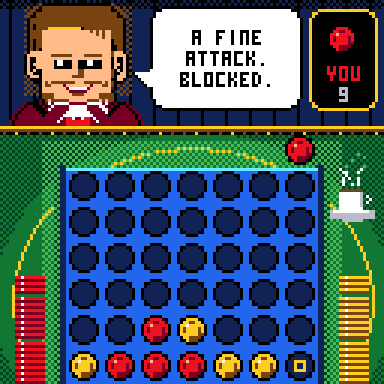
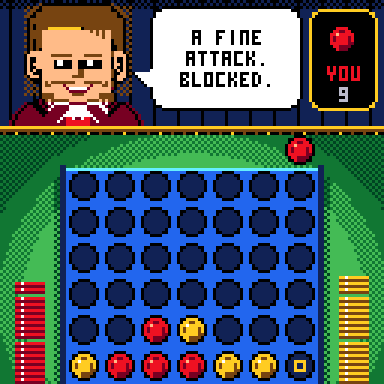
One quiet ending, a ringed felt, no cup
Win or lose the same lit room: GOOD GAME when you win, TRY AGAIN when you
lose, in the same gold lettering. The felt's greens run in rings from the
middle; the coffee cup and the gold line are gone. Each side's stack counts
the disc in hand as taken.

Changed region(s): [[0.0, 0.3438, 1.0, 1.0], [0.9375, 0.4062, 0.9688, 0.4375]]

diff --git a/src/stage/Stage.cpp b/src/stage/Stage.cpp
@@ -193,11 +193,9 @@ static void sceneUpdate() {
     uint16_t t = phaseT;
     if (t < 8) pal::setFade((uint8_t)(t * 2 + 2));
     if (t == 10) {
-        fx::banner(youWon() ? "BRAVO!" : "GOOD GAME", youWon() ? fx::B_RAINBOW : fx::B_GOLD, 12, 100);
+        fx::banner(youWon() ? "GOOD GAME" : "TRY AGAIN", fx::B_GOLD, 12, 100);
         fx::holdBanner(true);
     }
-    // You won: the confetti is yours. You lost: a quiet word, no fuss.
-    if (youWon() && t % 40 == 5 && t < 250) { fx::fountain(8, 126, 10); fx::fountain(120, 126, 10); }
     // His last word, typed under him from CAPTION_AT.
     if (skip && !overDone) { overDone = true; skip = false; }
     if (t >= 150) overDone = true;
@@ -386,10 +384,12 @@ static void drawPlay(uint32_t frame) {
     else drawPlaque();
     drawTurn(frame);
     rail(frame);
-    props(frame);
     // Half the discs each to begin with.
     uint8_t reds = c4::count(shown.side[0]), golds = c4::count(shown.side[1]);
-    drawStacks((uint8_t)(21 - reds - (fall.on && fall.side == 0)), (uint8_t)(21 - golds - (fall.on && fall.side == 1)));
+    // ... less those on the board, and the one in hand or on its way down.
+    bool hand = fall.on || (phase == PLAY && live);
+    uint8_t whose = fall.on ? fall.side : turnSide;
+    drawStacks((uint8_t)(21 - reds - (hand && whose == 0)), (uint8_t)(21 - golds - (hand && whose == 1)));
     if (fall.on) {
         int y = fallY();
         drawDisc(discX(fall.col), y, fall.side);
@@ -406,20 +406,6 @@ static void drawPlay(uint32_t frame) {
     }
 }
 
-// Bresenham from the sunburst's centre, stopped where it leaves the screen.
-static void ray(int x1, int y1, uint8_t c) {
-    int x = 64, y = 60;
-    int dx = x1 > x ? x1 - x : x - x1, dy = y1 > y ? y1 - y : y - y1;
-    int stepX = x < x1 ? 1 : -1, stepY = y < y1 ? 1 : -1, err = dx - dy;
-    while ((unsigned)x < GFX_W && (unsigned)y < GFX_H) {
-        gfx_pixel(x, y, c);
-        if (x == x1 && y == y1) break;
-        int e2 = err << 1;
-        if (e2 > -dy) { err -= dy; x += stepX; }
-        if (e2 < dx) { err += dx; y += stepY; }
-    }
-}
-
 static void drawScene(uint32_t frame) {
     int t = phaseT;
     int typed = t - CAPTION_AT;
@@ -427,20 +413,11 @@ static void drawScene(uint32_t frame) {
     bool typing = typed >= 0 && typed < len;
     uint8_t expr = blinkT ? (uint8_t)E_BLINK : endFace, look = 1;
     int x = 16, y = 22;
-    if (youWon()) {
-        // Congratulations: a sunburst turning behind him as he nods.
-        gfx_clear(NAVY);
-        for (int i = 0; i < 16; i++) {
-            int a = i * 16 + (int)(frame & 255);
-            ray(64 + ((fx::isin(a + 64) * 120) >> 8), 60 + ((fx::isin(a) * 120) >> 8), (i & 1) ? FX_A : WINE);
-        }
-        y += (fx::isin((t * 6) & 127) * 2) >> 8;
-    } else {
-        // A quiet room, the light on him: he has something kind to say.
-        gfx_clear(INK);
-        dither(0, 0, 128, 128, NAVY, 0);
-        gfx_fillEllipse(64, 62, 56, 50, NAVY);
-    }
+    (void)frame;
+    // A quiet room, the light on him, win or lose: he has a word for you.
+    gfx_clear(INK);
+    dither(0, 0, 128, 128, NAVY, 0);
+    gfx_fillEllipse(64, 62, 56, 50, NAVY);
     if (typing && ((t >> 2) & 1)) expr = E_TALK;
     dealer(expr, look, x & ~1, y, true);
     fx::drawParticles(3);

diff --git a/src/render/Table.cpp b/src/render/Table.cpp
@@ -57,27 +57,6 @@ void rail(uint32_t frame) {
     for (int i = 0; i < 32; i++) gfx_pixel(1 + i * 4, RAIL_Y + 2, (i + 3 - k % 3) % 3 ? WOOD : FX_B);
 }
 
-void props(uint32_t frame) {
-    // A cup and saucer on the felt, top right, and its steam: three wisps
-    // that sway as they rise and thin out.
-    int x = 112, y = 62;
-    gfx_fillEllipse(x + 5, y + 9, 7, 2, SILVER);
-    gfx_hline(x - 1, y + 8, 12, WHITE);
-    gfx_fillRect(x + 1, y + 1, 8, 7, WHITE);
-    gfx_hline(x + 2, y + 8, 6, WHITE);
-    gfx_vline(x + 8, y + 2, 5, SILVER);
-    gfx_hline(x + 1, y + 1, 8, WOOD);                   // the coffee
-    gfx_pixel(x + 10, y + 3, WHITE); gfx_pixel(x + 11, y + 4, WHITE); gfx_pixel(x + 10, y + 5, WHITE);
-    uint32_t k = frame >> 3;
-    for (int w = 0; w < 3; w++)
-        for (int i = 1; i < 12; i++) {
-            if (((uint32_t)(i + w * 2) - k) % 4u == 0) continue;     // gaps rising with the steam
-            if (i > 7 && ((i + w) & 1)) continue;
-            int sxp = x + 2 + w * 3 + ((fx::isin(i * 22 + w * 70 - (int)k * 12) * (i / 4 + 1)) >> 8);
-            gfx_pixel(sxp, y - i, i > 6 ? FELT_LT : WHITE);
-        }
-}
-
 void dealer(uint8_t expr, uint8_t look, int x, int y, bool big) {
     int k = big ? 2 : 1, scale = big ? 512 : 256;
     sprite4(DEALER, x, y, RM_ID, scale);
@@ -170,13 +149,15 @@ void drawBoard(const c4::Board &b, c4::Bits lit) {
     gfx_fillRect(0, y0, x0 - leg, 128 - y0, FELT);
     gfx_fillRect(x1 + leg, y0, 128 - x1 - leg, 128 - y0, FELT);
     if (zoom == 5) {
-        // The table under the lamp: dark toward the corners, the felt's
-        // printed line curving round the board, a pool of light in the middle.
+        // The table under the lamp: every green there is, in rings from the
+        // light in the middle out to the dark corners. (The second dither
+        // puts FELT where the first left FELT, so it only shows in the
+        // light ring.)
         dither(0, top, 128, 128 - top, FELT_DK, 0);
-        gfx_fillEllipse(64, 100, 66, 56, FELT);
-        gfx_fillEllipse(64, 100, 60, 51, GOLD);
-        gfx_fillEllipse(64, 100, 59, 50, FELT);
-        dither(14, y0 - 9, 100, 128, FELT_LT, 1);
+        gfx_fillEllipse(64, 100, 72, 62, FELT);
+        gfx_fillEllipse(64, 100, 65, 56, FELT_LT);
+        dither(0, top, 128, 128 - top, FELT, 1);
+        gfx_fillEllipse(64, 100, 57, 49, FELT_LT);
         gfx_fillRect(0, top, 128, 1, FELT_DK);
         dither(x0 - leg - 2, y0 + 3, 2, y1 - y0 - 3, FELT_DK, 0);
         dither(x1 + leg, y0 + 3, 2, y1 - y0 - 3, FELT_DK, 0);

diff --git a/src/render/Table.h b/src/render/Table.h
@@ -42,8 +42,6 @@ inline int discY(uint8_t row) { return BOARD_Y + (c4::ROWS - 1 - row) * CELL + 1
 
 void wall();
 void rail(uint32_t frame);                         // ... with a row of bulbs chasing along it
-// What stands on the felt beside the board: the dealer's coffee, steaming.
-void props(uint32_t frame);
 // The dealer with his top-left at (x, y); look: 0 left, 1 centre, 2 right.
 // big: at twice the size (the endings).
 void dealer(uint8_t expr, uint8_t look, int x = DEALER_X, int y = DEALER_Y, bool big = false);
@@ -63,7 +61,8 @@ void drawDisc(int x, int y, uint8_t side, bool lit = false);
 // The board's face over rows of a column (a disc falling behind it shows
 // only through the holes): the cells from world row y0 to y1.
 void frameOver(uint8_t col, int y0, int y1);
-// Each side's discs still to play, in stacks either side of the board.
+// Each side's discs still to play, in stacks either side of the board: 21
+// each to begin with, one fewer for every disc played (and the one in hand).
 void drawStacks(uint8_t red, uint8_t gold);
 
 }  // namespace table

diff --git a/README.md b/README.md
@@ -10,9 +10,11 @@ He plays properly and talks you through the game as he does: a good block
 gets a "WELL SPOTTED!", a missed win a "LOOK AGAIN", and he warns you when
 he has three in a row. When a four is made the camera comes in to twice the
 size and the four discs light up one by one; then the scene cuts to him -
-"BRAVO!" and his congratulations if you won, "GOOD GAME" and a word of
-encouragement if he did. On the table, under the lamp: a row of marquee
-bulbs along the rail and his cup of coffee, steaming.
+"GOOD GAME" and his congratulations if you won, "TRY AGAIN" and a word of
+encouragement if he did. The felt lies under a lamp, its greens in rings
+from the light in the middle to the dark corners; a row of marquee bulbs
+runs along the rail; and each side's 21 discs stand in a stack beside the
+board that goes down as they are played.
 
 ![He wins, and is gracious about it](docs/hewins.gif)
 
@@ -35,7 +37,7 @@ You need the Arduino IDE (2.x) or `arduino-cli`, and:
 3. **This repository**, in a folder named `CHFour`.
 
 Pick *Tools > Optimize > Smallest + LTO* and *Tools > USB > Upload only*.
-That is 36.9 KB of the 50,944-byte application region, with room left for
+That is 36.3 KB of the 50,944-byte application region, with room left for
 the two flash pages that hold your record and a saved game. From the
 command line:
 
